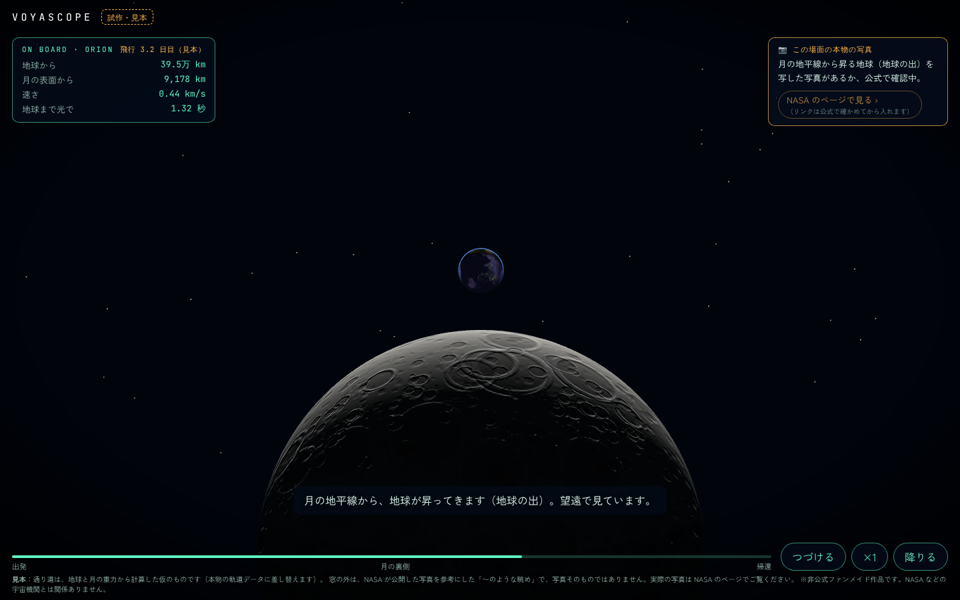
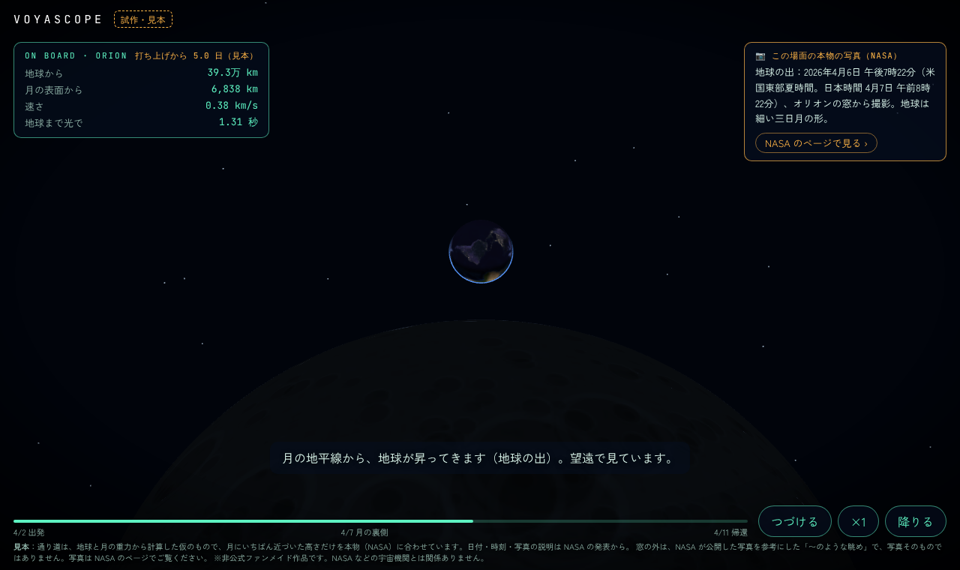
アルテミス2号ツアーに C22 の結果を入れる：場面の順番・写真の案内・日付を本物に
- 場面の順番を NASA の予定と写真の時刻に合わせた：地球の入り → 月の裏側（約40分、通信がとだえる）→ 最接近 → 地球の出 → 日食（試作では日食が地球の出の前だった）
- 写真の欄：地球の入り・月の裏側（ヴァヴィロフ・クレーター）・地球の出・日食（金星）。説明は NASA の説明文から、リンクは NASA のページ（写真は載せない）
- 見本の道のり：月にいちばん近づく高さを本物（4,067 マイル＝約 6,545 km）に合わせて作り直した。HUD の日数は最接近の予定時刻にそろえた
- タイムラインに日付（4/2・4/7・4/11、日本時間）、はじめの説明に「2026年4月・4人・約10日」、おわりに NASA の写真ページへのリンク
- 地球照で、月の夜の側がうっすら見えるように。乗る時間は約4分
- 入れなかったもの：本物の軌道データ（NASA のエフェメリス・Horizons）と CGI Moon Kit は、使うかをオーナーが決めるまで入れない。宇宙飛行士の名前は書かない
- 照合の記録：voyascope-research の research/verification/2026-10-09-c22.md

Claude-Session: https://claude.ai/code/session_01PSGDyXvgTX9QfsVBqZKy2A

diff --git a/web/tour/artemis2/tour.js b/web/tour/artemis2/tour.js
@@ -56,6 +56,11 @@ const earthHidden = (s) => {
   const e = s.craft.clone().negate().normalize(), m = s.moon.clone().sub(s.craft);
   return e.angleTo(m.clone().normalize()) < Math.asin(Math.min(1, R_M / m.length()));
 };
+// 地球が月の陰に入る時刻（地球の入り）
+const T_SET = (() => {
+  for (let t = T_MOON - d(0.3); t < T_MOON + d(0.3); t += 60) if (earthHidden(stateAt(t))) return t;
+  return T_MOON - d(0.02);
+})();
 // 地球が月の陰から出てくる時刻（地球の出）。月にいちばん近づいたあとで探す
 const T_RISE = (() => {
   let hidden = false;
@@ -68,14 +73,18 @@ const T_RISE = (() => {
 })();
 
 // ---------- 乗っているあいだの台本（飛行の時刻 → 実際の秒数）。月のまわりはゆっくり ----------
+// 本物の順番（NASA 2026-04-06 の予定と、写真の時刻）：地球の入り → 月にいちばん近づく → 地球の出 → 日食
+const T_ECLIPSE = T_MOON + d(2 / 24); // 日食は、いちばん近づいてから1時間半ほどあとに始まった（午後8時35分ごろ）
 const SEGS = [
-  { t0: 0, t1: d(0.35), sec: 22, look: "earth", say: "地球をはなれて、月へ。うしろの窓に、地球がだんだん小さくなっていきます。" },
-  { t0: d(0.35), t1: T_MOON - d(0.42), sec: 30, look: "moon", say: "月まで、およそ38万km。何もない宇宙を、2日以上かけて進みます。" },
-  { t0: T_MOON - d(0.42), t1: T_MOON - d(0.1), sec: 28, look: "moon", say: "月が大きくなってきました。月の重力に引かれて、だんだん速くなります。" },
-  { t0: T_MOON - d(0.1), t1: T_RISE - d(0.012), sec: 58, look: "moon", say: "月の裏側へ。地球からは見えない側です。地球が月に隠れているあいだは、電波も届きません。", far: true },
-  { t0: T_RISE - d(0.012), t1: T_RISE + d(0.045), sec: 26, look: "earth", rise: true, fov: 24, say: "月の地平線から、地球が昇ってきます（地球の出）。望遠で見ています。" },
-  { t0: T_RISE + d(0.045), t1: T_END - d(0.3), sec: 32, look: "earth", say: "地球へ帰ります。この見本の道のりは、月の重力で向きを変えて、エンジンを使わずに戻ってくる形です（自由帰還軌道）。" },
-  { t0: T_END - d(0.3), t1: T_END, sec: 20, look: "earth", say: "大気に入ります。まわりの空気がとても熱くなり、オレンジ色に光ります。" },
+  { t0: 0, t1: d(0.35), sec: 20, look: "earth", say: "地球をはなれて、月へ。うしろの窓に、地球がだんだん小さくなっていきます。" },
+  { t0: d(0.35), t1: T_MOON - d(0.42), sec: 26, look: "moon", say: "月まで、およそ38万km。何もない宇宙を、何日もかけて進みます。" },
+  { t0: T_MOON - d(0.42), t1: T_SET - d(0.008), sec: 26, look: "moon", say: "月が大きくなってきました。月の重力に引かれて、だんだん速くなります。" },
+  { t0: T_SET - d(0.008), t1: T_SET + d(0.004), sec: 16, look: "earth", set: true, fov: 24, photo: "earthset", say: "月のふちに、地球が沈んでいきます（地球の入り）。望遠で見ています。" },
+  { t0: T_SET + d(0.004), t1: T_RISE - d(0.008), sec: 44, look: "moon", far: true, photo: "farside", say: "月の裏側です。月が電波をさえぎるので、およそ40分、地球と連絡がとれません。" },
+  { t0: T_RISE - d(0.008), t1: T_RISE + d(0.012), sec: 24, look: "earth", rise: true, fov: 16, photo: "earthrise", say: "月の地平線から、地球が昇ってきます（地球の出）。望遠で見ています。" },
+  { t0: T_RISE + d(0.012), t1: T_ECLIPSE + d(0.02), sec: 28, look: "moon", photo: "eclipse", say: "月の向こうに、太陽が隠れていきます。" },
+  { t0: T_ECLIPSE + d(0.02), t1: T_END - d(0.3), sec: 28, look: "earth", say: "地球へ帰ります。月の重力で向きを変えて、地球へ戻ってくる通り道です（自由帰還軌道）。" },
+  { t0: T_END - d(0.3), t1: T_END, sec: 18, look: "earth", say: "大気に入ります。まわりの空気がとても熱くなり、オレンジ色に光ります。" },
 ];
 let acc = 0;
 for (const s of SEGS) {
@@ -89,10 +98,9 @@ const rideToMission = (r) => {
   const u = Math.min(1, Math.max(0, (r - s.r0) / s.sec));
   return { t: s.t0 + (s.t1 - s.t0) * u, seg: s, u };
 };
-$("#tl-moon").style.left = `${((SEGS[3].r0 + SEGS[3].sec / 2) / RIDE_SEC) * 100}%`;
+$("#tl-moon").style.left = `${((SEGS[4].r0 + SEGS[4].sec / 2) / RIDE_SEC) * 100}%`;
 
 // ---------- 太陽の向き：月の裏側で、月が太陽を隠す場面ができる向き（見本） ----------
-const T_ECLIPSE = T_MOON - d(0.03);
 const SUN = (() => {
   const s = stateAt(T_ECLIPSE);
   const dir = s.moon.clone().sub(s.craft).normalize();
@@ -112,7 +120,10 @@ scene.add(camera);
 const light = new THREE.DirectionalLight(0xffffff, 1.7);
 light.position.copy(SUN).multiplyScalar(1000);
 scene.add(light);
-scene.add(new THREE.AmbientLight(0x223344, 0.12));
+scene.add(new THREE.AmbientLight(0x2a3a4e, 0.32));
+// 地球照：地球で照り返した光が、月の夜の側をうっすら照らす（NASA の写真の説明にもある）
+const earthshine = new THREE.DirectionalLight(0x9fc3ff, 0.32);
+scene.add(earthshine);
 
 const loadTex = (src) => {
   const img = new Image();
@@ -390,19 +401,44 @@ function setCaption(text) {
   }, 350);
 }
 
-function showPhoto(text) {
+// 本物の写真（ページには載せず、NASA のページへ案内する）。説明は NASA の説明文から
+const NASA_FLYBY_PHOTOS = "https://www.nasa.gov/news-release/nasas-artemis-ii-crew-beams-official-moon-flyby-photos-to-earth/";
+const PHOTOS = {
+  earthset: {
+    text: "地球の入り：月の裏側で、地球が月のふちに沈む場面。2026年4月6日 午後6時41分（米国東部夏時間。日本時間 4月7日 午前7時41分）に撮影。",
+    url: "https://science.nasa.gov/earth/earth-observatory/earthset-from-the-lunar-far-side/",
+  },
+  farside: {
+    text: "月の裏側：ヴァヴィロフ・クレーターと、ヘルツシュプルング盆地のふち。乗員が手持ちのカメラ（焦点距離 400 mm）で撮影（2026年4月6日）。",
+    url: NASA_FLYBY_PHOTOS,
+  },
+  earthrise: {
+    text: "地球の出：2026年4月6日 午後7時22分（米国東部夏時間。日本時間 4月7日 午前8時22分）、オリオンの窓から撮影。地球は細い三日月の形。",
+    url: NASA_FLYBY_PHOTOS,
+  },
+  eclipse: {
+    text: "日食：うしろから太陽に照らされた月。月が太陽をすっぽり隠し、皆既が54分近くつづくほどの大きさに見えました。写真の左はしの銀色の光は金星（2026年4月6日）。",
+    url: NASA_FLYBY_PHOTOS,
+  },
+};
+let shownPhoto = null;
+function showPhoto(key) {
+  if (key === shownPhoto) return;
+  shownPhoto = key;
   const el = $("#photo");
-  el.hidden = !text;
-  document.body.classList.toggle("has-photo", !!text);
-  if (text) $("#photo-text").textContent = text;
+  el.hidden = !key;
+  document.body.classList.toggle("has-photo", !!key);
+  if (!key) return;
+  $("#photo-text").textContent = PHOTOS[key].text;
+  $("#photo-link").href = PHOTOS[key].url;
 }
 
 // 見る向き：台本の向き（地球・月）に、ドラッグで見回した分を足す
 function aim(s, seg, u) {
   let target = seg.look === "moon" ? s.moon : new THREE.Vector3();
   let up = new THREE.Vector3(0, 1, 0);
-  if (seg.rise) {
-    // 地球の出：月のふち（地球にいちばん近いところ）と地球のあいだを見る。月の地平線が下、地球が上になる向き
+  if (seg.rise || seg.set) {
+    // 地球の入り・地球の出：月のふち（地球にいちばん近いところ）と地球のあいだを見る。月の地平線が下、地球が上になる向き
     const eDir = s.craft.clone().negate().normalize();
     const toM = s.moon.clone().sub(s.craft);
     const mDir = toM.clone().normalize();
@@ -426,6 +462,7 @@ function aim(s, seg, u) {
 }
 
 function updateSunAndCorona() {
+  earthshine.position.copy(moon.position).negate(); // 地球（原点）から月へ向かう光
   sun.position.copy(camera.position).addScaledVector(SUN, 900);
   sun.scale.setScalar(70);
   // 月の見かけの大きさと、太陽との角度
@@ -440,8 +477,10 @@ function updateSunAndCorona() {
   return k;
 }
 
+// 打ち上げ（2026-04-01 18:35 EDT）から、月にいちばん近づく予定（2026-04-06 19:02 EDT）までの日数
+const MOON_DAY = (Date.UTC(2026, 3, 6, 23, 2) - Date.UTC(2026, 3, 1, 22, 35)) / 86400000;
 function hud(s, t) {
-  $("#hud-day").textContent = `飛行 ${(t / DAY).toFixed(1)} 日目（見本）`;
+  $("#hud-day").textContent = `打ち上げから ${((t - T_MOON) / DAY + MOON_DAY).toFixed(1)} 日（見本）`;
   $("#hud-earth").textContent = fmtKm(s.rKm);
   $("#hud-moon").textContent = fmtKm(Math.max(0, s.moonKm - 1737.4));
   $("#hud-speed").textContent = `${s.speed.toFixed(2)} km/s`;
@@ -478,7 +517,8 @@ function endRide(finished) {
   wing.visible = false;
   $("#window-frame").classList.remove("on");
   $("#reentry").style.opacity = 0;
-  for (const id of ["#hud", "#controls", "#caption", "#photo"]) $(id).hidden = true;
+  for (const id of ["#hud", "#controls", "#caption"]) $(id).hidden = true;
+  showPhoto(null);
   document.body.classList.remove("has-photo");
   lastCaption = null;
   introCamera();
@@ -583,13 +623,8 @@ function frame(now) {
       const eclipse = updateSunAndCorona();
       hud(s, t);
       $("#tl-fill").style.width = `${(ride / RIDE_SEC) * 100}%`;
-      setCaption(eclipse > 0.35 ? "太陽が月に隠れました。月のふちだけが光って見えます。" : seg.say);
-      // 本物の写真の案内（リンクは C22 で確かめてから入れる）
-      const earthBehindMoon = earthHidden(s);
-      if (eclipse > 0.35) showPhoto("月の裏側で、月が太陽を隠した場面（日食）。NASA の写真では、金星と土星も写っていたとされます（公式で確認中）。");
-      else if (seg === SEGS[4]) showPhoto("月の地平線から昇る地球（地球の出）を写した写真があるか、公式で確認中。");
-      else showPhoto(null);
-      if (seg.far && earthBehindMoon) setCaption("地球が月に隠れました。いまは地球と電波がつながりません。");
+      setCaption(eclipse > 0.35 ? "太陽が月に隠れました（日食）。月のふちだけが光って見えます。" : seg.far && Math.abs(t - T_MOON) < d(0.004) ? "月にいちばん近づきました。本物のオリオンは、月面から約6,545km（4,067マイル）まで近づきました。" : seg.say);
+      showPhoto(seg.photo ?? null);
       // 大気に入る：最後の数秒、オレンジに光る
       $("#reentry").style.opacity = String(seg === SEGS.at(-1) ? smoothstep(u, 0.55, 1) * 0.9 : 0);
     }

diff --git a/web/tour/artemis2/index.html b/web/tour/artemis2/index.html
@@ -27,9 +27,9 @@
   <!-- はじめ（外から見る） -->
   <section id="intro" class="intro">
     <h1>アルテミス2号に乗ってみる</h1>
-    <p class="lead">人を乗せたオリオン宇宙船が、月の裏側をまわって地球へ帰ってきた旅。<br>光るオリオンに触れると、<b>数分間、いっしょに乗れます</b>。</p>
+    <p class="lead">2026年4月、4人の宇宙飛行士を乗せたオリオン宇宙船が、月の裏側をまわって地球へ帰ってきた、約10日の旅。<br>光るオリオンに触れると、<b>数分間、いっしょに乗れます</b>。</p>
     <button id="board" class="btn btn-primary" type="button">オリオンに乗る <span aria-hidden="true">›</span></button>
-    <p class="fine">約3分半。ドラッグで窓の外を見回せます。</p>
+    <p class="fine">約4分。ドラッグで窓の外を見回せます。</p>
   </section>
 
   <!-- 乗っているあいだ -->
@@ -46,17 +46,17 @@
   <p id="caption" class="caption" aria-live="polite" hidden></p>
 
   <aside id="photo" class="photo" hidden>
-    <p class="photo-k mono">📷 この場面の本物の写真</p>
+    <p class="photo-k mono">📷 この場面の本物の写真（NASA）</p>
     <p id="photo-text" class="photo-text"></p>
-    <span class="photo-link" aria-disabled="true">NASA のページで見る ›<small>（リンクは公式で確かめてから入れます）</small></span>
+    <a id="photo-link" class="photo-link" href="#" target="_blank" rel="noopener">NASA のページで見る ›</a>
   </aside>
 
   <nav id="controls" class="controls" hidden>
     <div class="timeline" aria-hidden="true">
       <div id="tl-fill" class="tl-fill"></div>
-      <span class="tl-mark" style="left:0%">出発</span>
-      <span class="tl-mark" id="tl-moon">月の裏側</span>
-      <span class="tl-mark" style="left:100%">帰還</span>
+      <span class="tl-mark" style="left:0%">4/2 出発</span>
+      <span class="tl-mark" id="tl-moon">4/7 月の裏側</span>
+      <span class="tl-mark" style="left:100%">4/11 帰還</span>
     </div>
     <div class="buttons">
       <button id="pause" class="btn" type="button">一時停止</button>
@@ -67,13 +67,18 @@
 
   <section id="outro" class="intro outro" hidden>
     <h2>地球に帰ってきました</h2>
-    <p class="lead">約8日の旅を、数分で追いかけました。</p>
+    <p class="lead">約10日の旅を、数分で追いかけました。本物の写真は NASA のページで。</p>
+    <ul class="outro-links">
+      <li><a href="https://www.nasa.gov/news-release/nasas-artemis-ii-crew-beams-official-moon-flyby-photos-to-earth/" target="_blank" rel="noopener">月の裏側の写真（地球の出・日食など） ›</a></li>
+      <li><a href="https://science.nasa.gov/earth/earth-observatory/earthset-from-the-lunar-far-side/" target="_blank" rel="noopener">地球の入り ›</a></li>
+      <li><a href="https://www.nasa.gov/gallery/lunar-flyby/" target="_blank" rel="noopener">月のそばを通ったときの写真集 ›</a></li>
+    </ul>
     <button id="again" class="btn btn-primary" type="button">もう一度乗る <span aria-hidden="true">›</span></button>
   </section>
 
   <p class="note">
-    <b>見本</b>：通り道は、地球と月の重力から計算した仮のものです（本物の軌道データに差し替えます）。
-    窓の外は、NASA が公開した写真を参考にした「〜のような眺め」で、写真そのものではありません。実際の写真は NASA のページでご覧ください。
+    <b>見本</b>：通り道は、地球と月の重力から計算した仮のもので、月にいちばん近づいた高さだけを本物（NASA）に合わせています。日付・時刻・写真の説明は NASA の発表から。
+    窓の外は、NASA が公開した写真を参考にした「〜のような眺め」で、写真そのものではありません。写真は NASA のページでご覧ください。
     ※非公式ファンメイド作品です。NASA などの宇宙機関とは関係ありません。
   </p>
 

diff --git a/web/tour/artemis2/tour.css b/web/tour/artemis2/tour.css
@@ -63,7 +63,11 @@ html, body { margin: 0; height: 100%; background: var(--navy); color: var(--text
 .photo-k { margin: 0 0 4px; font-size: 11px; color: var(--amber); letter-spacing: 0.08em; }
 .photo-text { margin: 0 0 8px; font-size: 13px; line-height: 1.6; }
 .photo-link { display: inline-block; color: var(--amber); border: 1px solid rgba(255, 181, 71, 0.5); border-radius: 999px; padding: 3px 12px; font-size: 13px; opacity: 0.75; }
-.photo-link small { display: block; font-size: 10px; color: var(--text-dim); }
+.photo-link { text-decoration: none; opacity: 1; }
+.photo-link:hover { background: rgba(255, 181, 71, 0.14); }
+.outro-links { margin: 0 0 14px; padding: 0; list-style: none; display: grid; gap: 6px; font-size: 14px; }
+.outro-links a { color: var(--amber); text-decoration: none; }
+.outro-links a:hover { text-decoration: underline; }
 
 .controls { position: fixed; left: 18px; right: 18px; bottom: 44px; z-index: 4; display: flex; align-items: center; gap: 14px; }
 .timeline { position: relative; flex: 1; height: 4px; background: rgba(94, 242, 194, 0.22); border-radius: 2px; }

diff --git a/docs/tasks/019-artemis2-tour.md b/docs/tasks/019-artemis2-tour.md
@@ -5,10 +5,10 @@
 
 ## 方針
 
-- 写真はページに載せない。場面ごとに「この場面の本物の写真」の説明と、NASA のページへのリンクを出す（リンクは C22 で公式の URL を確かめてから入れる。いまは押せない）
+- 写真はページに載せない。場面ごとに「この場面の本物の写真」の説明と、NASA のページへのリンクを出す（URL は C22 のあと公式で確かめて入れた）
 - 窓の外は、写真を参考にした「〜のような眺め」（コードで描く）。写真そのものではないと、ページの下にいつも書いておく
 - 通り道は、本物の軌道データ（C22：Horizons で取れるか・取ってよいか）に差し替えるまで、地球と月の重力から計算した**仮の道**。HUD の日数・距離・速さもこの仮の道から出しているので「見本」と書く
-- 日付・時刻・「金星と土星も写っていた」などの事実は、C22 の報告を照合してから入れる。いまの字幕は物理の説明だけ（「月が太陽を隠す」「地球が月に隠れて電波がつながらない」など）
+- 日付・時刻・写真の説明などの事実は、C22 の報告を照合してから入れる（2026-10-09 に入れた。下の「C22 の結果を入れた」）
 - 置き場所：`web/tour/artemis2/`（`noindex`。地球の画面・遠くを見る部屋からはまだつながない）
 
 ## 作ったもの
@@ -16,18 +16,29 @@
 - `scripts/artemis2-sample-trajectory.mjs`：地球と月（円軌道）の重力で、月の裏側をまわって地球へ戻る道（自由帰還軌道）を探して計算する（RK4）。月にいちばん近いのは約3.2日目・月面から約8,000km、全体で約8.3日。`web/tour/artemis2/sample-trajectory.json`（`sample: true`）に書き出す
 - `web/tour/artemis2/`（three.js r128。本体と同じ `vendor/three-r128.min.js` と地球の画像を使う。新しい依存はない）
   - はじめ：通り道の全体を斜め上から見る。光るオリオンに触れる（またはボタン）と、数秒で近づいて乗り込む
-  - 乗っているあいだ（約3分半）：出発（地球を振り返る）→ 月へ → 月が近づく → 月の裏側（太陽が月に隠れる・地球が月に隠れて電波がとだえる）→ 地球の出 → 地球へ → 大気に入る。ドラッグで窓の外を見回せる・一時停止・×1/2/4・降りる
+  - 乗っているあいだ（約4分）：出発（地球を振り返る）→ 月へ → 月が近づく → 地球の入り → 月の裏側（電波がとだえる）→ 地球の出 → 日食 → 地球へ → 大気に入る。ドラッグで窓の外を見回せる・一時停止・×1/2/4・降りる
   - HUD：飛行日数・地球から・月の表面から・速さ・地球まで光で何秒（すべて仮の道から）
   - スマホ（縦長）では、はじめの絵を縦向き（月が上）にして案内の枠より上に収める。写真の説明が出ているあいだは、字幕をその上へ
 - 読み込み量：`config/size-budget.json` に「アルテミス2号ツアー」の組を足した（上限 600KB、いま 536KB。ほとんどが three.js と地球の昼夜の画像で、本体と共通なのでキャッシュが効く）
-- 画面：`docs/screenshots/artemis2-tour/`（PC 1440・スマホ 390。はじめ・日食・地球の出）
+- 画面：`docs/screenshots/artemis2-tour/`（PC 1440・スマホ 390。はじめ・地球の入り・月の裏側・地球の出・日食・おわり）
 
-## C22 のあとにすること
+## C22 の結果を入れた（2026-10-09）
 
-1. 通り道：Horizons で取れて、使い方が JPL に了承をもらった範囲に入るなら、本物の道に差し替える（取り方は「1件ずつ・週1回・連絡先入りの User-Agent」のまま。ミッションが終わった機体なので、取るのは1回でよいはず）。だめなら仮の道のまま「見本」と書き続ける
-2. 写真：場面ごとの公式ページの URL・撮った日時・説明を、出典つきで入れる（写真は載せない）
-3. 日付：打ち上げ・月にいちばん近づいた日時・着水を、出典つきで HUD とタイムラインに
-4. 月の見た目：いまはコードで描いた月（表側の海・裏側のクレーター）。NASA SVS の CGI Moon Kit が使えるなら差し替えを検討（C22 で利用条件を確認）
+C22（チャッピー、2026-10-09）の報告を、Claude Code が NASA の公式ページで照合して入れた（照合の記録：voyascope-research の `research/verification/2026-10-09-c22.md`）。
+
+- **場面の順番を本物に合わせた**：地球の入り（4/6 午後6時41分 EDT）→ 月の裏側・通信がとだえる（約40分）→ 月にいちばん近づく → 地球の出（午後7時22分）→ 日食（午後8時35分ごろから。皆既は54分近く）。試作では日食を地球の出の前に置いていたので直した
+- **見本の道のりを作り直した**：月にいちばん近づく高さを本物（4,067 マイル＝約 6,545 km。NASA 2026-04-11）に合わせた。ほかは物理の計算のまま（見本）
+- HUD の日数：月にいちばん近づく時刻を、本物の予定（打ち上げ 4/1 18:35 EDT から約5.02日）にそろえた
+- **写真の欄**：地球の入り・月の裏側（ヴァヴィロフ・クレーター）・地球の出・日食（金星）の4つ。説明は NASA の説明文から（日食は、金星の写った写真の説明だけ。土星・火星の写った別の写真の説明は混ぜない）。リンクは NASA のページ。写真はページに載せない
+- タイムライン：4/2 出発・4/7 月の裏側・4/11 帰還（日本時間）。おわりの画面に NASA の写真ページへのリンク3つ
+- 地球照（地球で照り返した光）で、月の夜の側がうっすら見えるようにした
+- 乗っている時間は約4分（230秒）になった
+
+## まだのこと
+
+1. **本物の軌道データ**：NASA が飛行の軌道データ（エフェメリス、ZIP）を公開していて、ページに「物理モデル・アニメーション・可視化・追跡アプリなどを作るのに使える」とある。JPL Horizons にも Artemis II（-1024）がある。使うかどうかはオーナーが決める（利用条件の判断。Horizons は、JPL に了承をもらった取り方の外になる）
+2. 月の見た目：NASA SVS の CGI Moon Kit（3D 用の月の色と標高の地図）。使うかはオーナーが決める
+3. 入口：遠くを見る部屋（月の停留所）に「光るオリオン」を置くか
 
 ## 決めてほしいこと
 
